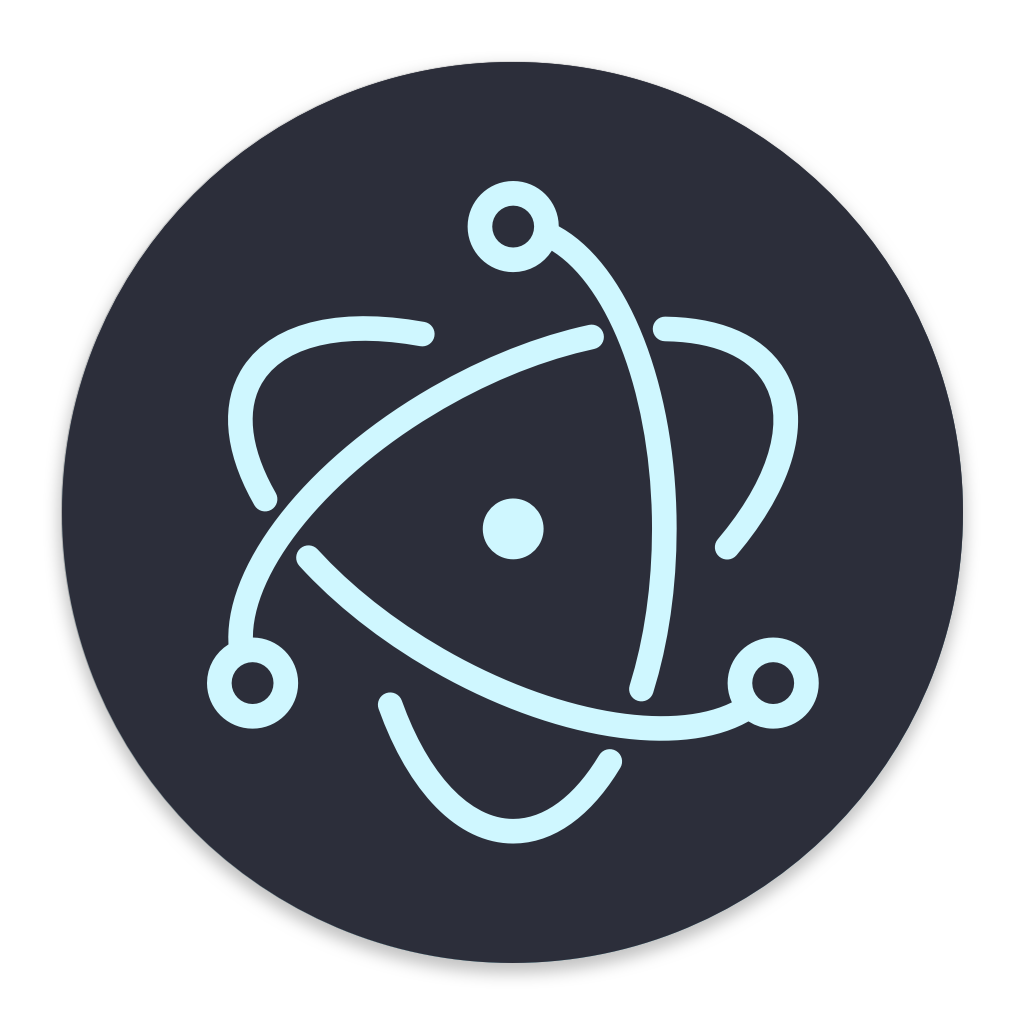
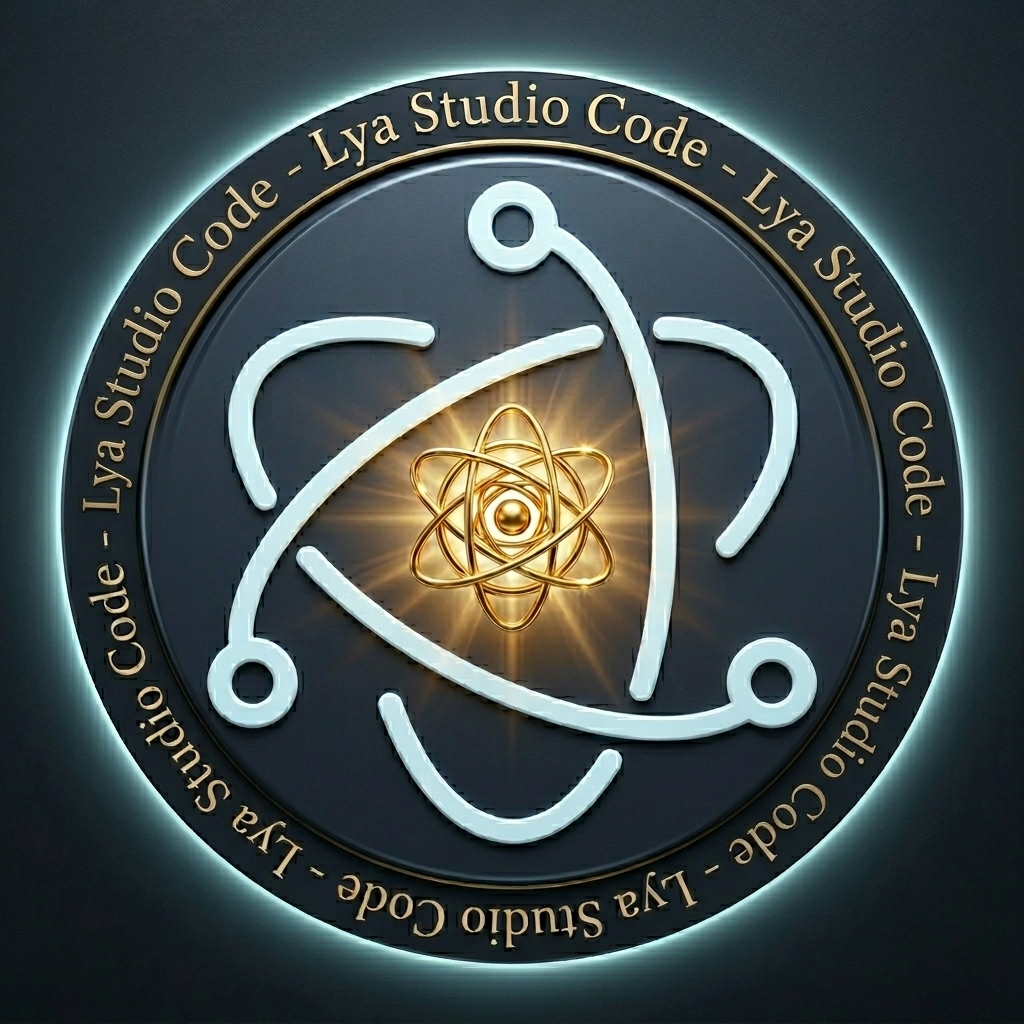
fix: reedição 1.0.2 — ícone real da marca + correção do crash de boot do backend
Instaladores .exe/.msi/.msix reconstruídos: tiles/ícone agora usam a identidade
visual real (não o placeholder genérico) e o backend empacotado deixou de abrir a
janela em branco (registerAccountsRoutes restaurado). Hashes SHA-256 atualizados na
Declaração de Propriedade; documento precisa ser re-assinado com o e-CNPJ.

diff --git a/docs/DECLARACAO-PROPRIEDADE-1.0.2.md b/docs/DECLARACAO-PROPRIEDADE-1.0.2.md
@@ -3,7 +3,7 @@
 **Produto:** Lya Studio Coder
 **Versão:** 1.0.2
 **Identificador:** com.lya.studiocoder
-**Data do build:** 2026-06-15
+**Data do build:** 2026-06-16 (reedição 1.0.2 — ver nota abaixo)
 **Titular dos direitos:** LC REPRESENTAÇÕES LTDA — CNPJ 52.867.002/0001-86
 **Arquiteto / autor técnico:** Luis Antonio Cardozo
 
@@ -19,9 +19,15 @@ cujos hashes constam aqui.
 
 | Arquivo | Tamanho (bytes) | SHA-256 |
 |---|---|---|
[6 lines of base64/hex data omitted]
+
+> **Reedição 2026-06-16:** os instaladores 1.0.2 foram reconstruídos para corrigir
+> (a) o ícone do app/tiles — agora a identidade visual real da Lya, não mais o placeholder
+> genérico — e (b) uma falha de inicialização do backend empacotado que abria a janela em
+> branco. Os hashes acima substituem os da primeira publicação de 1.0.2. Por mudarem os
+> artefatos, **este documento precisa ser assinado novamente** com o e-CNPJ.
 
 Para conferir a integridade de um instalador, recalcule o resumo e compare:
 
